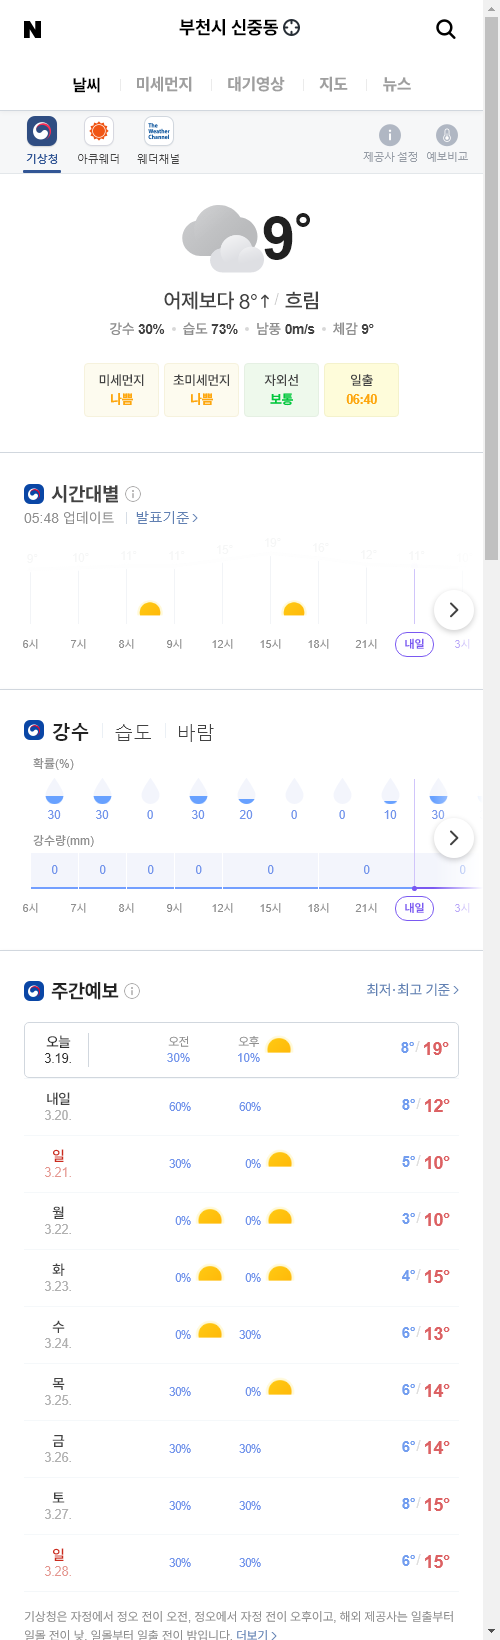
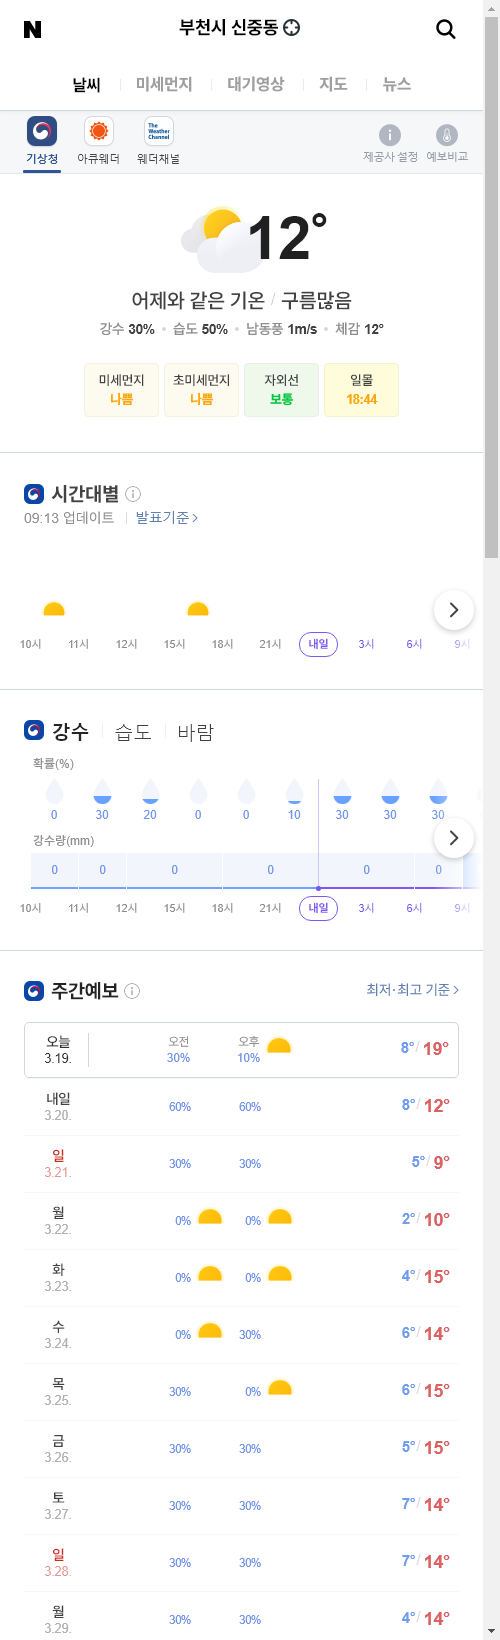
update result

diff --git a/README.md b/README.md
@@ -1,5 +1,5 @@
-##  2021-03-19 05:54:31   금요일 
-##### 날씨   -   어제보다 8° 높아요흐림  
+##  2021-03-19 09:17:13   금요일 
+##### 날씨   -   어제와 같은 기온구름많음  
 <center><img src="../img/naver_weather_week.png"></center>
 ----
 ----
@@ -23,34 +23,34 @@
 ##### 시장
 <table border="1" bordercolor="blue" align = "center" >
 <tr align = "right" > <td>Item</td><td>Price</td><td>Diff</td><td>Rate</td><td>Buy</td><td>Sell</td><td>...</td>  </tr>
-<tr align = "right" > <td>USD</td><td>1,125.0</td><td>-4.5</td><td><font size="3" color="blue">-0.4%</font></td><td><font size="3" color="black">1,110</font></td><td><font size="3" color="black">0</font></td><td>0</td>  </tr>
-<tr align = "right" > <td>WTI</td><td>64.63</td><td>-0.23</td><td><font size="3" color="blue">-0.35%</font></td><td><font size="3" color="black">29.0</font></td><td><font size="3" color="black">0</font></td><td>0</td>  </tr>
-<tr align = "right" > <td>GOLD</td><td>1,726.0</td><td>-3.8</td><td><font size="3" color="blue">-0.21%</font></td><td><font size="3" color="black">0</font></td><td><font size="3" color="black">0</font></td><td>0</td>  </tr>
+<tr align = "right" > <td>USD</td><td>1,130.0</td><td>5.9</td><td><font size="3" color="red">0.52%</font></td><td><font size="3" color="black">1,110</font></td><td><font size="3" color="black">0</font></td><td>0</td>  </tr>
+<tr align = "right" > <td>WTI</td><td>60.06</td><td>-4.57</td><td><font size="3" color="blue">-7.07%</font></td><td><font size="3" color="black">29.0</font></td><td><font size="3" color="black">0</font></td><td>0</td>  </tr>
+<tr align = "right" > <td>GOLD</td><td>1,732.0</td><td>5.4</td><td><font size="3" color="red">0.31%</font></td><td><font size="3" color="black">0</font></td><td><font size="3" color="black">0</font></td><td>0</td>  </tr>
 </table>
 ----
 ##### 주가
 <table border="1" bordercolor="blue" align = "center" >
 <tr align = "right" > <td>Item</td><td>Price</td><td>Diff</td><td>Rate</td><td>Purchased</td><td>Sell</td><td>Buy</td>  </tr>
-<tr align = "right" > <td>한국 전력</td><td>24,100</td><td>-500</td><td><font size="3" color="blue">-2.03%</font></td><td>25,720</td><td><font size="3" color="black">27,700</font></td><td><font size="3" color="black">20,700</font></td>  </tr>
-<tr align = "right" > <td>삼성엔지니어.</td><td>13,600</td><td>200</td><td><font size="3" color="red">1.49%</font></td><td>18,935</td><td><font size="3" color="black">20,000</font></td><td><font size="3" color="black">8,000</font></td>  </tr>
-<tr align = "right" > <td>CJ CGV</td><td>28,500</td><td>-550</td><td><font size="3" color="blue">-1.89%</font></td><td>34,895</td><td><font size="3" color="black">36,000</font></td><td><font size="3" color="black">0</font></td>  </tr>
-<tr align = "right" > <td>아모레퍼시픽</td><td>237,000</td><td>-1,000</td><td><font size="3" color="blue">-0.42%</font></td><td>235,350</td><td><font size="3" color="black">240,000</font></td><td><font size="3" color="black">130,000</font></td>  </tr>
-<tr align = "right" > <td>한화</td><td>29,650</td><td>100</td><td><font size="3" color="red">0.34%</font></td><td>25,550</td><td><font size="3" color="black">26,250</font></td><td><font size="3" color="black">26,250</font></td>  </tr>
-<tr align = "right" > <td>NAVER</td><td>403,500</td><td>20,000</td><td><font size="3" color="red">5.22%</font></td><td>147,200</td><td><font size="3" color="black">386,000</font></td><td><font size="3" color="black">286,000</font></td>  </tr>
-<tr align = "right" > <td>LG 화학우</td><td>388,000</td><td>11,500</td><td><font size="3" color="red">3.05%</font></td><td>202,490</td><td><font size="3" color="black">384,000</font></td><td><font size="3" color="black">384,000</font></td>  </tr>
-<tr align = "right" > <td>스튜디오드래.</td><td>95,800</td><td>-800</td><td><font size="3" color="blue">-0.83%</font></td><td>81,243</td><td><font size="3" color="black">85,200</font></td><td><font size="3" color="black">85,200</font></td>  </tr>
-<tr align = "right" > <td>QV미국IT</td><td>26,280</td><td>45</td><td><font size="3" color="red">0.17%</font></td><td>0</td><td><font size="3" color="black">30,000</font></td><td><font size="3" color="black">20,000</font></td>  </tr>
-<tr align = "right" > <td>삼성 전자우</td><td>73,600</td><td>100</td><td><font size="3" color="red">0.14%</font></td><td>48,250</td><td><font size="3" color="black">56,000</font></td><td><font size="3" color="black">45,000</font></td>  </tr>
-<tr align = "right" > <td>LS</td><td>65,800</td><td>-1,200</td><td><font size="3" color="blue">-1.79%</font></td><td>71,900</td><td><font size="3" color="black">82,000</font></td><td><font size="3" color="black">60,000</font></td>  </tr>
-<tr align = "right" > <td>한화에어로스.</td><td>41,850</td><td>600</td><td><font size="3" color="red">1.45%</font></td><td>25,700</td><td><font size="3" color="black">30,000</font></td><td><font size="3" color="black">24,000</font></td>  </tr>
-<tr align = "right" > <td>카카오</td><td>498,000</td><td>13,000</td><td><font size="3" color="red">2.68%</font></td><td>405,500</td><td><font size="3" color="black">440,000</font></td><td><font size="3" color="black">400,000</font></td>  </tr>
-<tr align = "right" > <td>호텔 신라</td><td>87,200</td><td>100</td><td><font size="3" color="red">0.11%</font></td><td>72,800</td><td><font size="3" color="black">100,000</font></td><td><font size="3" color="black">70,000</font></td>  </tr>
-<tr align = "right" > <td>S-Oil</td><td>81,900</td><td>100</td><td><font size="3" color="red">0.12%</font></td><td>62,842</td><td><font size="3" color="black">100,000</font></td><td><font size="3" color="black">50,000</font></td>  </tr>
-<tr align = "right" > <td>LG전자</td><td>155,500</td><td>-2,500</td><td><font size="3" color="blue">-1.58%</font></td><td>82,022</td><td><font size="3" color="black">100,000</font></td><td><font size="3" color="black">60,000</font></td>  </tr>
-<tr align = "right" > <td>KT&G</td><td>82,900</td><td>2,800</td><td><font size="3" color="red">3.5%</font></td><td>80,400</td><td><font size="3" color="black">100,000</font></td><td><font size="3" color="black">70,000</font></td>  </tr>
-<tr align = "right" > <td>지역난방공사</td><td>37,950</td><td>-200</td><td><font size="3" color="blue">-0.52%</font></td><td>43,590</td><td><font size="3" color="black">60,000</font></td><td><font size="3" color="black">30,000</font></td>  </tr>
-<tr align = "right" > <td>KOEDX은행</td><td>7,000</td><td>5</td><td><font size="3" color="red">0.07%</font></td><td>5,178</td><td><font size="3" color="black">6,225</font></td><td><font size="3" color="black">6,225</font></td>  </tr>
-<tr align = "right" > <td>글로벌럭셔리</td><td>16,950</td><td>115</td><td><font size="3" color="red">0.68%</font></td><td>15,260</td><td><font size="3" color="black">20,000</font></td><td><font size="3" color="black">10,000</font></td>  </tr>
-<tr align = "right" > <td>한국금융지주</td><td>87,500</td><td>1,100</td><td><font size="3" color="red">1.27%</font></td><td>0</td><td><font size="3" color="black">82,000</font></td><td><font size="3" color="black">60,000</font></td>  </tr>
+<tr align = "right" > <td>한국 전력</td><td>23,950</td><td>-150</td><td><font size="3" color="blue">-0.62%</font></td><td>25,720</td><td><font size="3" color="black">27,700</font></td><td><font size="3" color="black">20,700</font></td>  </tr>
+<tr align = "right" > <td>삼성엔지니어.</td><td>13,350</td><td>-250</td><td><font size="3" color="blue">-1.84%</font></td><td>18,935</td><td><font size="3" color="black">20,000</font></td><td><font size="3" color="black">8,000</font></td>  </tr>
+<tr align = "right" > <td>CJ CGV</td><td>28,250</td><td>-250</td><td><font size="3" color="blue">-0.88%</font></td><td>34,895</td><td><font size="3" color="black">36,000</font></td><td><font size="3" color="black">0</font></td>  </tr>
+<tr align = "right" > <td>아모레퍼시픽</td><td>235,000</td><td>-2,000</td><td><font size="3" color="blue">-0.84%</font></td><td>235,350</td><td><font size="3" color="black">240,000</font></td><td><font size="3" color="black">130,000</font></td>  </tr>
+<tr align = "right" > <td>한화</td><td>29,200</td><td>-450</td><td><font size="3" color="blue">-1.52%</font></td><td>25,550</td><td><font size="3" color="black">26,250</font></td><td><font size="3" color="black">26,250</font></td>  </tr>
+<tr align = "right" > <td>NAVER</td><td>396,500</td><td>-7,000</td><td><font size="3" color="blue">-1.73%</font></td><td>147,200</td><td><font size="3" color="black">386,000</font></td><td><font size="3" color="black">286,000</font></td>  </tr>
+<tr align = "right" > <td>LG 화학우</td><td>379,500</td><td>-8,500</td><td><font size="3" color="blue">-2.19%</font></td><td>202,490</td><td><font size="3" color="black">384,000</font></td><td><font size="3" color="orangered">384,000</font></td>  </tr>
+<tr align = "right" > <td>스튜디오드래.</td><td>94,000</td><td>-1,800</td><td><font size="3" color="blue">-1.88%</font></td><td>81,243</td><td><font size="3" color="black">85,200</font></td><td><font size="3" color="black">85,200</font></td>  </tr>
+<tr align = "right" > <td>QV미국IT</td><td>26,280</td><td>0</td><td><font size="3" color="black">0.0%</font></td><td>0</td><td><font size="3" color="black">30,000</font></td><td><font size="3" color="black">20,000</font></td>  </tr>
+<tr align = "right" > <td>삼성 전자우</td><td>73,200</td><td>-400</td><td><font size="3" color="blue">-0.54%</font></td><td>48,250</td><td><font size="3" color="black">56,000</font></td><td><font size="3" color="black">45,000</font></td>  </tr>
+<tr align = "right" > <td>LS</td><td>64,100</td><td>-1,700</td><td><font size="3" color="blue">-2.58%</font></td><td>71,900</td><td><font size="3" color="black">82,000</font></td><td><font size="3" color="black">60,000</font></td>  </tr>
+<tr align = "right" > <td>한화에어로스.</td><td>40,550</td><td>-1,300</td><td><font size="3" color="blue">-3.11%</font></td><td>25,700</td><td><font size="3" color="black">30,000</font></td><td><font size="3" color="black">24,000</font></td>  </tr>
+<tr align = "right" > <td>카카오</td><td>486,500</td><td>-11,500</td><td><font size="3" color="blue">-2.31%</font></td><td>405,500</td><td><font size="3" color="black">440,000</font></td><td><font size="3" color="black">400,000</font></td>  </tr>
+<tr align = "right" > <td>호텔 신라</td><td>86,300</td><td>-900</td><td><font size="3" color="blue">-1.03%</font></td><td>72,800</td><td><font size="3" color="black">100,000</font></td><td><font size="3" color="black">70,000</font></td>  </tr>
+<tr align = "right" > <td>S-Oil</td><td>79,400</td><td>-2,500</td><td><font size="3" color="blue">-3.05%</font></td><td>62,842</td><td><font size="3" color="black">100,000</font></td><td><font size="3" color="black">50,000</font></td>  </tr>
+<tr align = "right" > <td>LG전자</td><td>152,000</td><td>-3,500</td><td><font size="3" color="blue">-2.25%</font></td><td>82,022</td><td><font size="3" color="black">100,000</font></td><td><font size="3" color="black">60,000</font></td>  </tr>
+<tr align = "right" > <td>KT&G</td><td>82,500</td><td>-400</td><td><font size="3" color="blue">-0.48%</font></td><td>80,400</td><td><font size="3" color="black">100,000</font></td><td><font size="3" color="black">70,000</font></td>  </tr>
+<tr align = "right" > <td>지역난방공사</td><td>37,750</td><td>-200</td><td><font size="3" color="blue">-0.53%</font></td><td>43,590</td><td><font size="3" color="black">60,000</font></td><td><font size="3" color="black">30,000</font></td>  </tr>
+<tr align = "right" > <td>KOEDX은행</td><td>7,035</td><td>35</td><td><font size="3" color="red">0.5%</font></td><td>5,178</td><td><font size="3" color="black">6,225</font></td><td><font size="3" color="black">6,225</font></td>  </tr>
+<tr align = "right" > <td>글로벌럭셔리</td><td>16,870</td><td>-80</td><td><font size="3" color="blue">-0.47%</font></td><td>15,260</td><td><font size="3" color="black">20,000</font></td><td><font size="3" color="black">10,000</font></td>  </tr>
+<tr align = "right" > <td>한국금융지주</td><td>86,500</td><td>-1,000</td><td><font size="3" color="blue">-1.14%</font></td><td>0</td><td><font size="3" color="black">82,000</font></td><td><font size="3" color="black">60,000</font></td>  </tr>
 </table>
 ----
